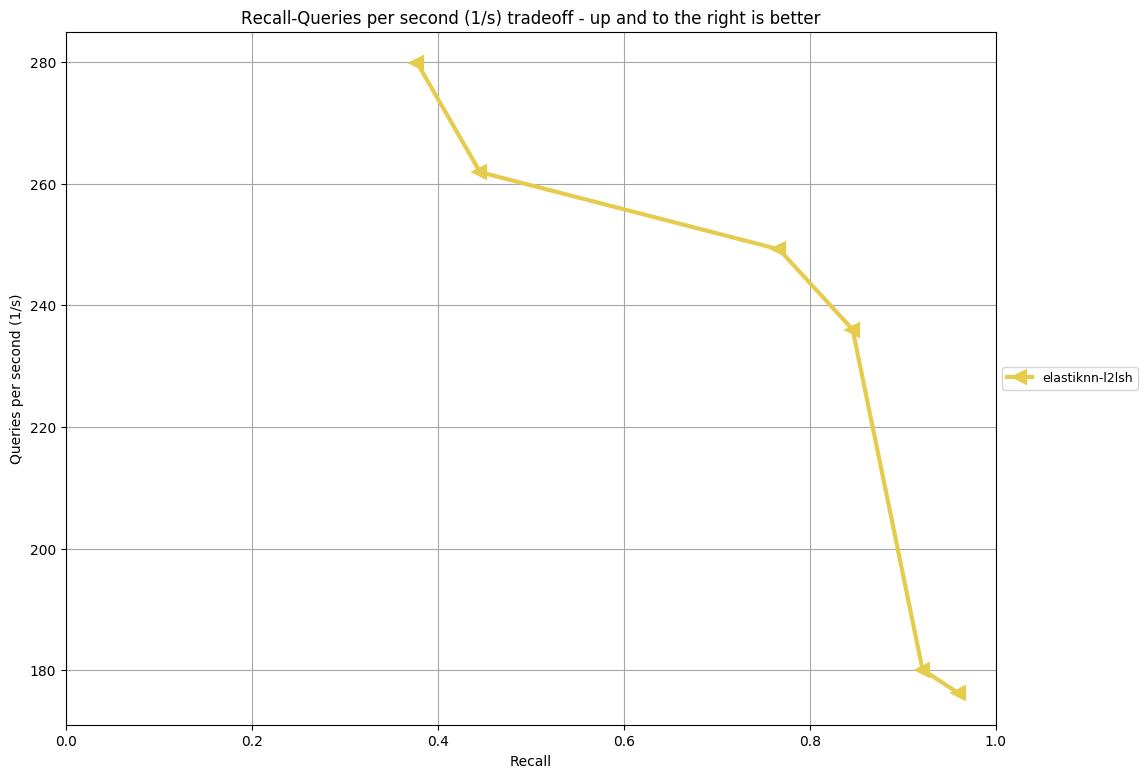
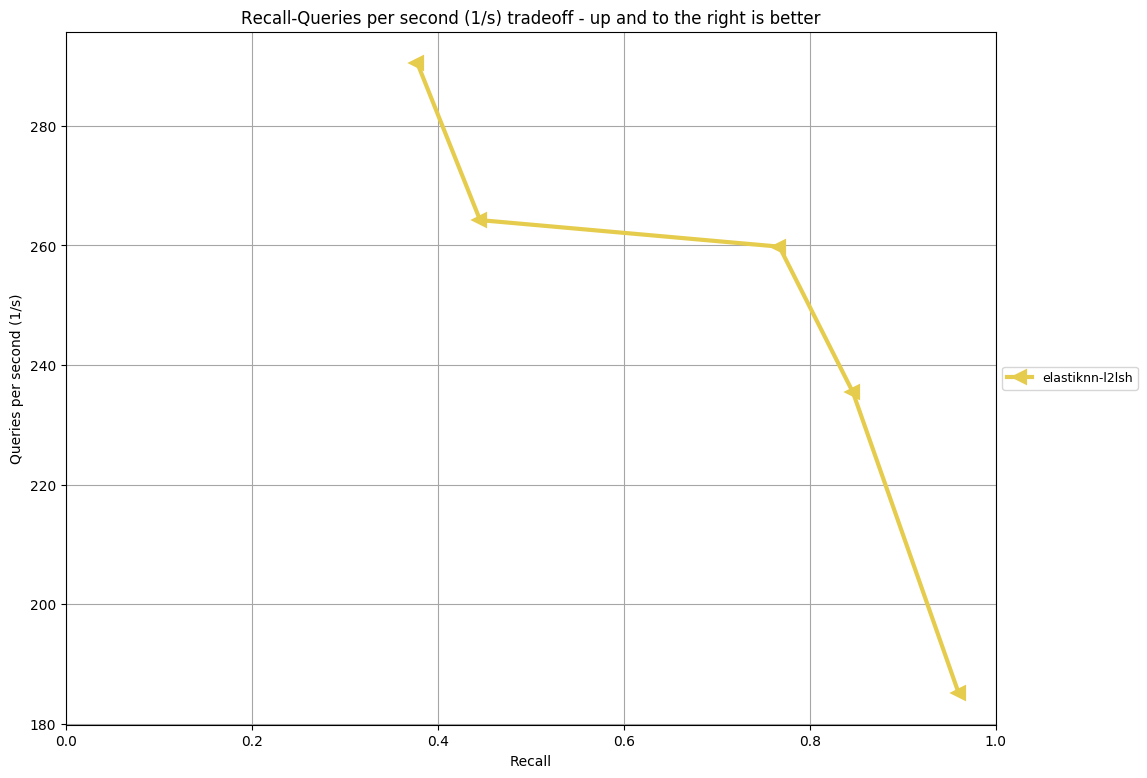
latest run

diff --git a/docs/pages/performance/fashion-mnist/results.md b/docs/pages/performance/fashion-mnist/results.md
@@ -1,10 +1,10 @@
 |Model|Parameters|Recall|Queries per Second|
 |---|---|---|---|
-|eknn-l2lsh|L=100 k=4 w=1024 candidates=500 probes=0|0.378|279.774|
-|eknn-l2lsh|L=100 k=4 w=1024 candidates=1000 probes=0|0.445|261.873|
-|eknn-l2lsh|L=100 k=4 w=1024 candidates=500 probes=3|0.634|227.220|
-|eknn-l2lsh|L=100 k=4 w=1024 candidates=1000 probes=3|0.716|214.413|
-|eknn-l2lsh|L=100 k=4 w=2048 candidates=500 probes=0|0.767|249.171|
-|eknn-l2lsh|L=100 k=4 w=2048 candidates=1000 probes=0|0.846|235.994|
-|eknn-l2lsh|L=100 k=4 w=2048 candidates=500 probes=3|0.921|180.094|
-|eknn-l2lsh|L=100 k=4 w=2048 candidates=1000 probes=3|0.960|176.224|
+|eknn-l2lsh|L=100 k=4 w=1024 candidates=500 probes=0|0.378|290.475|
+|eknn-l2lsh|L=100 k=4 w=1024 candidates=1000 probes=0|0.445|264.238|
+|eknn-l2lsh|L=100 k=4 w=1024 candidates=500 probes=3|0.634|235.087|
+|eknn-l2lsh|L=100 k=4 w=1024 candidates=1000 probes=3|0.716|214.971|
+|eknn-l2lsh|L=100 k=4 w=2048 candidates=500 probes=0|0.767|259.798|
+|eknn-l2lsh|L=100 k=4 w=2048 candidates=1000 probes=0|0.846|235.443|
+|eknn-l2lsh|L=100 k=4 w=2048 candidates=500 probes=3|0.921|183.821|
+|eknn-l2lsh|L=100 k=4 w=2048 candidates=1000 probes=3|0.960|185.114|
